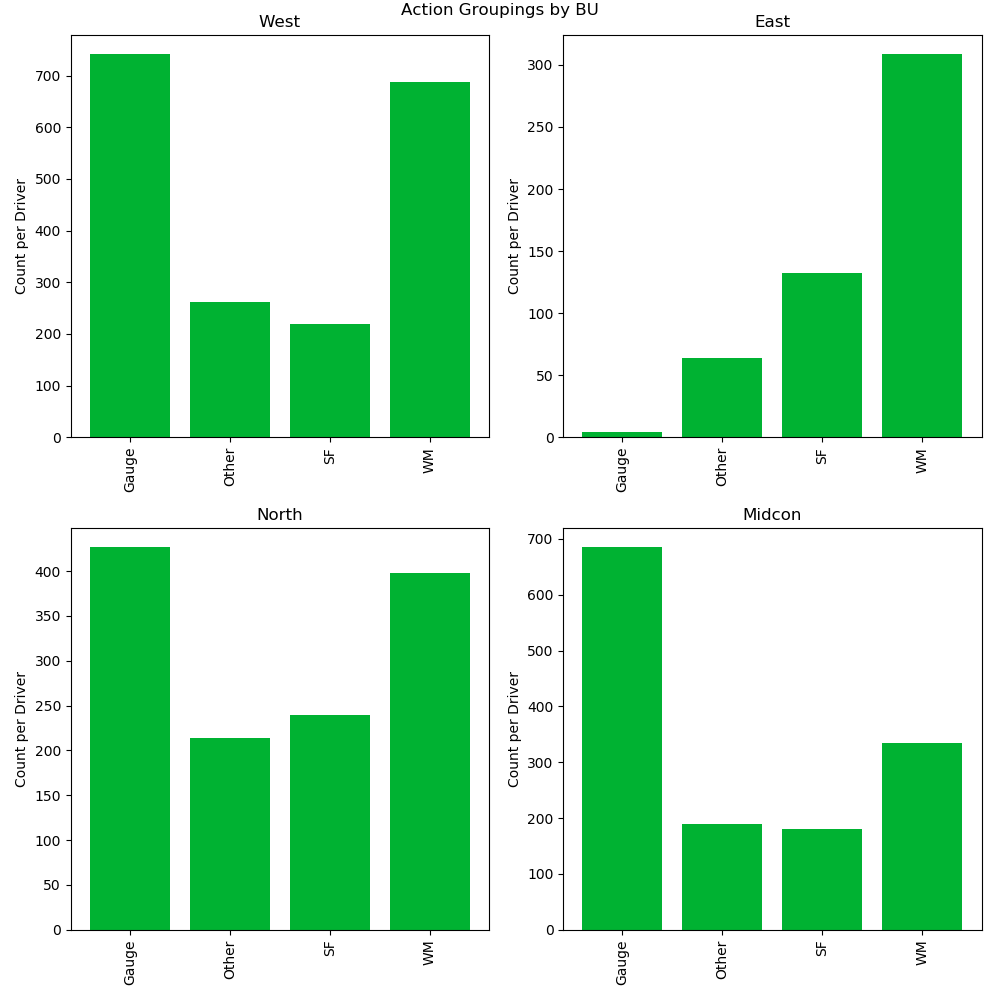
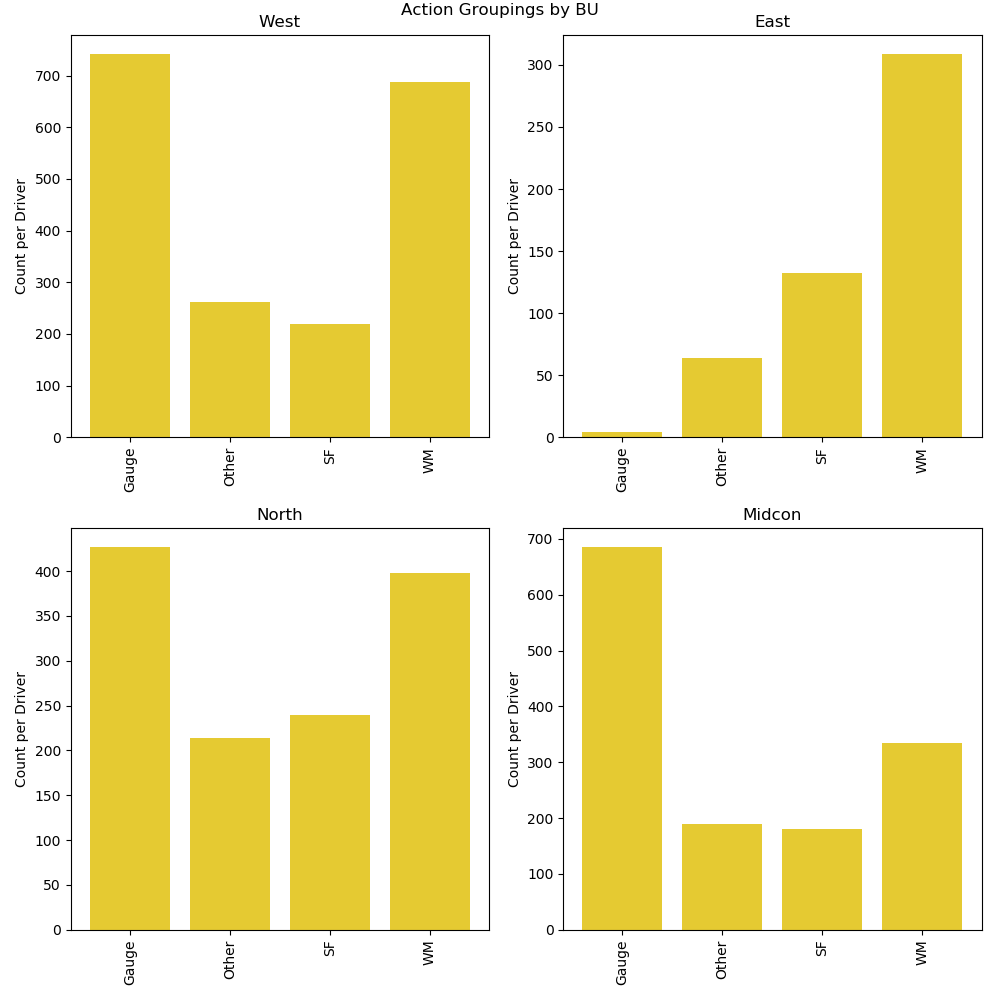
overall action dist

diff --git a/analyze.py b/analyze.py
@@ -409,7 +409,7 @@ def action_count(df):
 		axis.bar(list(plot_dic.keys()),
 				 np.array(list(plot_dic.values())) / drivers[bu.lower()],
 				 .8, align='center',
-				 color='#00b232', label='Action Type Counts')
+				 color='#e5ca32', label='Action Type Counts')
 		axis.set_title('{}'.format(bu))
 		axis.xaxis.set_visible(True)
 		axis.yaxis.set_visible(True)
@@ -448,7 +448,8 @@ if __name__ == '__main__':
 					   (a_df['Action Type - No count'] != 'Gauge') &
 					   (a_df['Action Type - No count'] != 'SF'),
 					  ['BusinessUnit', '_id', 'Action Type - No count', 'Action Date']]
-	wh_df = pd.merge(work_df, hour_df, left_on='_id', right_on='id')
+	all_df = a_df.loc[:, ['BusinessUnit', '_id', 'Action Type - No count', 'Action Date']]
+	wh_df = pd.merge(all_df, hour_df, left_on='_id', right_on='id')
 	action_count(a_df)
 	# for g_type in ['driver', 'all']:
 	# 	work_dist(work_df[['BusinessUnit', 'Action Type - No count', 'agg_dur']], g_type)
